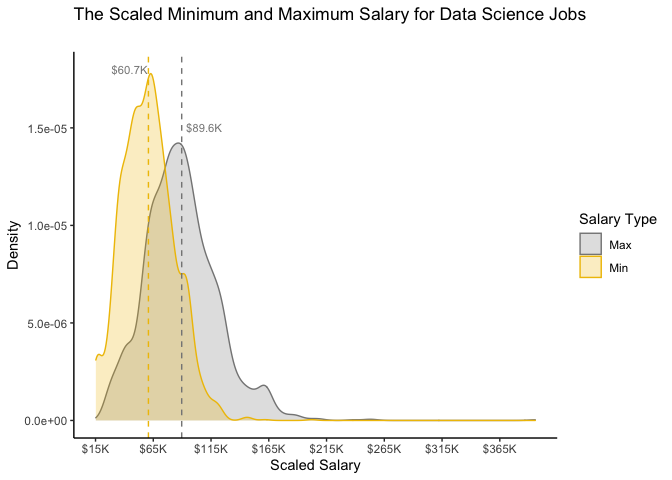
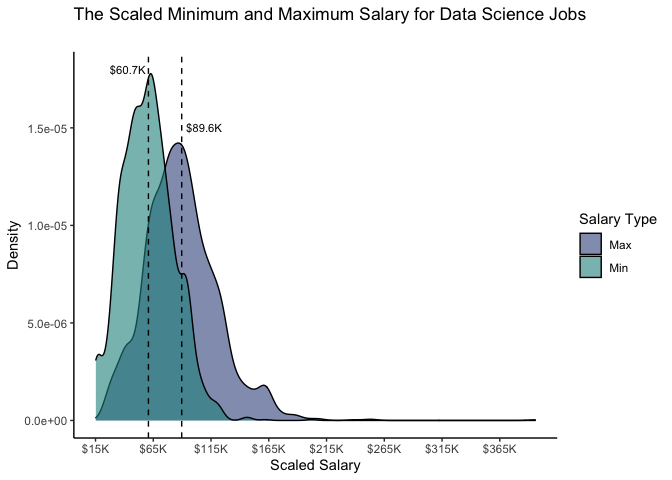
Modified to uniform color scheme and minor adjustments

diff --git a/EDA/salary_job_category_industry.md b/EDA/salary_job_category_industry.md
@@ -25,12 +25,14 @@ within data science?
 #remove NAs from job_category
 scaled_salary_data_jc <- scaled_salary_data %>% filter(!is.na(job_category))
 
-scaled_salary_data_jc %>% ggplot(aes(x = salary, col = type, fill = type)) +
-  geom_density(alpha = 0.25) +
+scaled_salary_data_jc %>% ggplot(aes(x = salary, fill = type)) +
+  geom_density(alpha = 0.8) +
   labs(
     title = "Salary by Job Category",
     x = "Scaled Salary",
     y = "Density") +
+  scale_fill_viridis(discrete = TRUE, begin = 0.25, end = 0.5, name = "Salary Type",
+                     labels = c("Max", "Min")) +
   facet_wrap(~job_category) + 
   theme_classic()
 ```
@@ -38,10 +40,12 @@ scaled_salary_data_jc %>% ggplot(aes(x = salary, col = type, fill = type)) +
 ![](salary_job_category_industry_files/figure-gfm/unnamed-chunk-3-1.png)<!-- -->
 
 ``` r
-scaled_salary_data_jc %>% ggplot(aes(y = salary, x = job_category, col = type, fill = type)) +
-  geom_boxplot(alpha = 0.25) +
+scaled_salary_data_jc %>% ggplot(aes(y = salary, x = job_category, fill = type)) +
+  geom_boxplot(alpha = 0.85) +
   labs(
     title = "Salary by Job Category") +
+  scale_fill_viridis(discrete = TRUE, begin = 0.25, end = 0.5, name = "Salary Type",
+                     labels = c("Max", "Min")) +
   theme_classic() +
    coord_flip()
 ```
@@ -74,11 +78,20 @@ jc_avg_salary_long <- jc_avg_salary %>% pivot_longer(cols = c(avg_max_salary, av
 ```
 
 ``` r
-jc_avg_salary_long %>% ggplot(aes(x = reorder(job_category, -salary), y = salary ,fill = type)) +
+jc_avg_salary_long %>% ggplot(aes(x = reorder(job_category, -salary), y = salary ,fill = type))+
   geom_bar(stat = "identity", position = 'dodge') +
   labs(
-    title = "Salary by Job Category") +
-  theme_classic()
+    title = "Salary by Job Category",
+    x = "",
+    y = "Scaled Salary") +
+  scale_fill_viridis(discrete = TRUE, begin = 0.25, end = 0.5, name = "Salary Type",
+                     labels = c("Max", "Min")) + 
+  scale_y_continuous(
+    breaks = seq(0,110000,25000),
+    labels = function(x){paste0('$', x/1000, 'K')}
+  ) +
+  theme_classic() +
+  theme( axis.text.x = element_text(angle = 45, vjust = 1, hjust=0.95, size = 8))
 ```
 
 ![](salary_job_category_industry_files/figure-gfm/unnamed-chunk-7-1.png)<!-- -->
@@ -87,16 +100,16 @@ jc_avg_salary_long %>% ggplot(aes(x = reorder(job_category, -salary), y = salary
 
 ``` r
 #closely related to data science
-ds_related <- c("Data Scientist", "Data Analyst", "Data Engineer", "Machine Learning", "Statistics")
+ds_related <- c("Data Scientist", "Data Analyst", "Data Engineer", "Machine Learning", "Statistics", "Other Analyst")
 
-scaled_salary_data_jc_top5 <- scaled_salary_data_jc %>% 
+scaled_salary_data_jc_related <- scaled_salary_data_jc %>% 
   filter(job_category %in% ds_related)
 
-mean_salary_jc <- scaled_salary_data_jc_top5 %>% group_by(type, job_category) %>% 
+mean_salary_jc <- scaled_salary_data_jc_related %>% group_by(type, job_category) %>% 
   mutate(mean_rate = mean(salary))
 
-scaled_salary_data_jc_top5 %>% ggplot(aes(x = salary, col = type, fill = type)) +
-  geom_density(alpha = 0.50) +
+scaled_salary_data_jc_related %>% ggplot(aes(x = salary, fill = type)) +
+  geom_density(alpha = 0.80) +
   labs(
     title = "Salary by Job Category",
     x = "Scaled Salary",
@@ -105,44 +118,37 @@ scaled_salary_data_jc_top5 %>% ggplot(aes(x = salary, col = type, fill = type)) 
     breaks = seq(15000,260000,75000),
     labels = function(x){paste0('$', x/1000, 'K')}
   ) +
-  scale_color_manual(values = c("#009E73","#9999CC"),
-                     name = "Salary Type",
-                    labels = c("Max", "Min")) +
-  scale_fill_manual(values = c("#009E73","#9999CC"), 
-                    name = "Salary Type",
-                    labels = c("Max", "Min")) +
-   geom_vline(aes(xintercept=mean_salary_jc$mean_rate, color = type, group = job_category), linetype = "dashed", show.legend = FALSE) +
-#  annotate("text",y = 12e-06, x = 65000, label = mean_salary_jc$mean_rate, size = 3, color = "#868686FF", group = job_category) +
-#  annotate("text",y = 12e-06, x = 140000, label = , size = 3, color = "#868686FF") +
+   geom_vline(aes(xintercept=mean_salary_jc$mean_rate, fill = type, group = job_category), linetype = "dashed", show.legend = FALSE) +
+scale_fill_viridis(discrete = TRUE, begin = 0.25, end = 0.5, name = "Salary Type",
+                     labels = c("Max", "Min")) + 
   geom_text(data = mean_salary_jc, aes(x = mean_rate+25000, y = 2.2e-05, label = paste0('$', round(mean_rate/1000,1), 'K'), group = job_category), size = 2) +
   facet_wrap(~job_category) + 
   theme_classic()
 ```
 
+    ## Warning: Ignoring unknown aesthetics: fill
+
 ![](salary_job_category_industry_files/figure-gfm/unnamed-chunk-8-1.png)<!-- -->
 
 ``` r
-jc_avg_salary_top5 <- jc_avg_salary_long %>% 
+jc_avg_salary_related <- jc_avg_salary_long %>% 
   filter(job_category %in% ds_related)
 
-jc_avg_salary_top5 %>% ggplot(aes(x = reorder(job_category, -salary), y = salary ,fill = type)) +
+jc_avg_salary_related %>% ggplot(aes(x = reorder(job_category, -salary), y = salary ,fill = type)) +
   geom_bar(stat = "identity", position = 'dodge') +
   labs(
     title = "Average Salary by Job Category",
     subtitle = "Data Science Related Job Openings",
     x = "",
     y = "Average Salary") +
-  scale_color_manual(values = c("#009E73","#9999CC"),
-                     name = "Salary Type",
-                    labels = c("Max", "Min")) +
-  scale_fill_manual(values = c("#009E73","#9999CC"), 
-                    name = "Salary Type",
-                    labels = c("Max", "Min")) +
+scale_fill_viridis(discrete = TRUE, begin = 0.25, end = 0.5, name = "Salary Type",
+                     labels = c("Max", "Min")) + 
   scale_y_continuous(
     breaks = seq(0,110000,20000),
     labels = function(x){paste0('$', x/1000, 'K')}
   ) +
-  theme_classic()
+  theme_classic() +
+  theme( axis.text.x = element_text(angle = 45, vjust = 1, hjust=0.95, size = 8))
 ```
 
 ![](salary_job_category_industry_files/figure-gfm/unnamed-chunk-9-1.png)<!-- -->
@@ -160,7 +166,7 @@ scaled_salary_data_ji <- scaled_salary_data %>% filter(!is.na(industry))
 
 scaled_salary_data_ji <- scaled_salary_data_ji %>% filter(job_type != "PART_TIME")
 
-scaled_salary_data_ji_top5 <- scaled_salary_data_ji %>% 
+scaled_salary_data_ji_related <- scaled_salary_data_ji %>% 
   group_by(industry) %>% 
   summarise(count = n()) %>%
   arrange(desc(count)) %>%
@@ -173,13 +179,13 @@ scaled_salary_data_ji_top5 <- scaled_salary_data_ji %>%
 
 ``` r
 scaled_salary_data_ji <- scaled_salary_data_ji %>% 
-  filter(industry %in% scaled_salary_data_ji_top5$industry)
+  filter(industry %in% scaled_salary_data_ji_related$industry)
 
 mean_salary_ji <- scaled_salary_data_ji %>% group_by(type, industry) %>% 
   mutate(mean_rate = mean(salary))
 
-scaled_salary_data_ji %>% ggplot(aes(x = salary, col = type, fill = type)) +
-  geom_density(alpha = 0.25) +
+scaled_salary_data_ji %>% ggplot(aes(x = salary, fill = type)) +
+  geom_density(alpha = 0.8) +
   labs(
     title = "Salary by Job Industry",
     x = "Scaled Salary",
@@ -188,17 +194,15 @@ scaled_salary_data_ji %>% ggplot(aes(x = salary, col = type, fill = type)) +
     breaks = seq(15000,400000,100000),
     labels = function(x){paste0('$', x/1000, 'K')}
   ) +
-  geom_vline(aes(xintercept=mean_salary_ji$mean_rate, color = type, group = industry), linetype = "dashed", show.legend = FALSE) +
-  scale_color_manual(values = c("#009E73","#9999CC"),
-                     name = "Salary Type",
-                    labels = c("Max", "Min")) +
-  scale_fill_manual(values = c("#009E73","#9999CC"), 
-                    name = "Salary Type",
-                    labels = c("Max", "Min")) +
+  geom_vline(aes(xintercept=mean_salary_ji$mean_rate, fill = type, group = industry), linetype = "dashed", show.legend = FALSE) +
+scale_fill_viridis(discrete = TRUE, begin = 0.25, end = 0.5, name = "Salary Type",
+                     labels = c("Max", "Min")) + 
   geom_text(data = mean_salary_ji, aes(x = mean_rate+25000, y = 2.5e-05, label = paste0('$', round(mean_rate/1000,1), 'K'), group = industry), size = 2) +
   facet_wrap(~industry) + 
   theme_classic()
 ```
+
+    ## Warning: Ignoring unknown aesthetics: fill
 
 ![](salary_job_category_industry_files/figure-gfm/unnamed-chunk-10-1.png)<!-- -->
 
@@ -217,27 +221,24 @@ ji_avg_salary_long <- ji_avg_salary %>% pivot_longer(cols = c(avg_max_salary, av
                 values_to = "salary",
                 values_drop_na = TRUE)
 
-ji_avg_salary_long_top5 <- ji_avg_salary_long %>% 
-  filter(industry %in% scaled_salary_data_ji_top5$industry)
+ji_avg_salary_long_related <- ji_avg_salary_long %>% 
+  filter(industry %in% scaled_salary_data_ji_related$industry)
 
-ji_avg_salary_long_top5 %>% ggplot(aes(x = reorder(industry, -salary), y = salary ,fill = type)) +
+ji_avg_salary_long_related %>% ggplot(aes(x = reorder(industry, -salary), y = salary ,fill = type)) +
   geom_bar(stat = "identity", position = 'dodge') +
   labs(
     title = "Average Salary by Industry",
     subtitle = "Data Science Related Job Openings",
     x = "",
     y = "Average Salary") +
-  scale_color_manual(values = c("#009E73","#9999CC"),
-                     name = "Salary Type",
-                    labels = c("Max", "Min")) +
-  scale_fill_manual(values = c("#009E73","#9999CC"), 
-                    name = "Salary Type",
-                    labels = c("Max", "Min")) +
+scale_fill_viridis(discrete = TRUE, begin = 0.25, end = 0.5, name = "Salary Type",
+                     labels = c("Max", "Min")) + 
   scale_y_continuous(
     breaks = seq(0,100000,20000),
     labels = function(x){paste0('$', x/1000, 'K')}
   ) +
-  theme_classic()
+  theme_classic() +
+  theme( axis.text.x = element_text(angle = 45, vjust = 1, hjust=0.95, size = 8))
 ```
 
 ![](salary_job_category_industry_files/figure-gfm/unnamed-chunk-11-1.png)<!-- -->

diff --git a/EDA/col_analysis.md b/EDA/col_analysis.md
@@ -57,9 +57,10 @@ area_COI
 area_COI %>% ggplot(aes(x = reorder(metro_location, -coi), y = coi)) +
   geom_bar(stat = "identity") +
   labs(title = "Cost of Living Index for Metro Areas",
-         x = "Metro Area",
+         x = "",
          y = "Cost of Living Index") +
-  theme_bw()
+  theme_bw() +
+  theme( axis.text.x = element_text(angle = 45, vjust = 1, hjust=0.95, size = 8))
 ```
 
 ![](col_analysis_files/figure-gfm/unnamed-chunk-4-1.png)<!-- -->
@@ -214,15 +215,11 @@ salary_data <- ds_jobs %>% select(min_salary, max_salary) %>% pivot_longer(
 mean_salary <- salary_data %>% group_by(type) %>% 
   mutate(mean_rate = mean(salary))
 
-salary_data %>% ggplot(aes(x = salary, color = type, fill = type)) +
-  geom_density(alpha = 0.25) +
-  scale_color_manual(values = c("#868686FF","#EFC000FF"),
-                     name = "Salary Type",
-                    labels = c("Max", "Min")) +
-  scale_fill_manual(values = c("#868686FF","#EFC000FF"), 
-                    name = "Salary Type",
-                    labels = c("Max", "Min")) +
-  geom_vline(aes(xintercept=mean_salary$mean_rate, color = type), linetype = "dashed", show.legend = FALSE) +
+salary_data %>% ggplot(aes(x = salary, fill = type)) +
+  geom_density(alpha = 0.6) +
+   scale_fill_viridis(discrete = TRUE, begin = 0.25, end = 0.5, name = "Salary Type",
+                     labels = c("Max", "Min")) +
+  geom_vline(aes(xintercept=mean_salary$mean_rate, fill = type), linetype = "dashed", show.legend = FALSE) +
   labs(
     title = "The Minimum and Maximum Salary for Data Science Jobs",
     subtitle = "",
@@ -231,10 +228,12 @@ salary_data %>% ggplot(aes(x = salary, color = type, fill = type)) +
   scale_x_continuous(
     breaks = seq(15000,390000,50000),
     labels = function(x){paste0('$', x/1000, 'K')})+ 
-  annotate("text",y = 12e-06, x = 65000, label = "$82.5K", size = 3, color = "#868686FF") +
-  annotate("text",y = 12e-06, x = 140000, label = "$120.6K", size = 3, color = "#868686FF") +
+  annotate("text",y = 12e-06, x = 65000, label = "$82.5K", size = 3) +
+  annotate("text",y = 11.2e-06, x = 140000, label = "$120.6K", size = 3) +
   theme_classic()
 ```
+
+    ## Warning: Ignoring unknown aesthetics: fill
 
 ![](col_analysis_files/figure-gfm/unnamed-chunk-15-1.png)<!-- -->
 
@@ -274,15 +273,11 @@ scaled_salary_data <- ds_jobs %>% select(min_scaled_salary, max_scaled_salary) %
 mean_scaled_salary <- scaled_salary_data %>% group_by(type) %>% 
   mutate(mean_rate = mean(salary))
 
-scaled_salary_data %>% ggplot(aes(x = salary, color = type, fill = type)) +
-  geom_density(alpha = 0.25) +
-  scale_color_manual(values = c("#868686FF","#EFC000FF"),
-                     name = "Salary Type",
-                    labels = c("Max", "Min")) +
-  scale_fill_manual(values = c("#868686FF","#EFC000FF"), 
-                    name = "Salary Type",
-                    labels = c("Max", "Min")) +
-  geom_vline(aes(xintercept=mean_scaled_salary$mean_rate, color = type), linetype = "dashed", show.legend = FALSE) +
+scaled_salary_data %>% ggplot(aes(x = salary, fill = type)) +
+  geom_density(alpha = 0.6) +
+   scale_fill_viridis(discrete = TRUE, begin = 0.25, end = 0.5, name = "Salary Type",
+                     labels = c("Max", "Min")) +
+  geom_vline(aes(xintercept=mean_scaled_salary$mean_rate, fill = type), linetype = "dashed", show.legend = FALSE) +
   labs(
     title = "The Scaled Minimum and Maximum Salary for Data Science Jobs",
     subtitle = "",
@@ -291,10 +286,12 @@ scaled_salary_data %>% ggplot(aes(x = salary, color = type, fill = type)) +
   scale_x_continuous(
     breaks = seq(15000,400000,50000),
     labels = function(x){paste0('$', x/1000, 'K')})+ 
-  annotate("text",y = 1.8e-05, x = 44500, label = "$60.7K", size = 3, color = "#868686FF") +
-  annotate("text",y = 1.5e-05, x = 109000, label = "$89.6K", size = 3, color = "#868686FF") +
+  annotate("text",y = 1.8e-05, x = 43000, label = "$60.7K", size = 3) +
+  annotate("text",y = 1.5e-05, x = 109000, label = "$89.6K", size = 3) +
   theme_classic()
 ```
+
+    ## Warning: Ignoring unknown aesthetics: fill
 
 ![](col_analysis_files/figure-gfm/unnamed-chunk-16-1.png)<!-- -->
 
